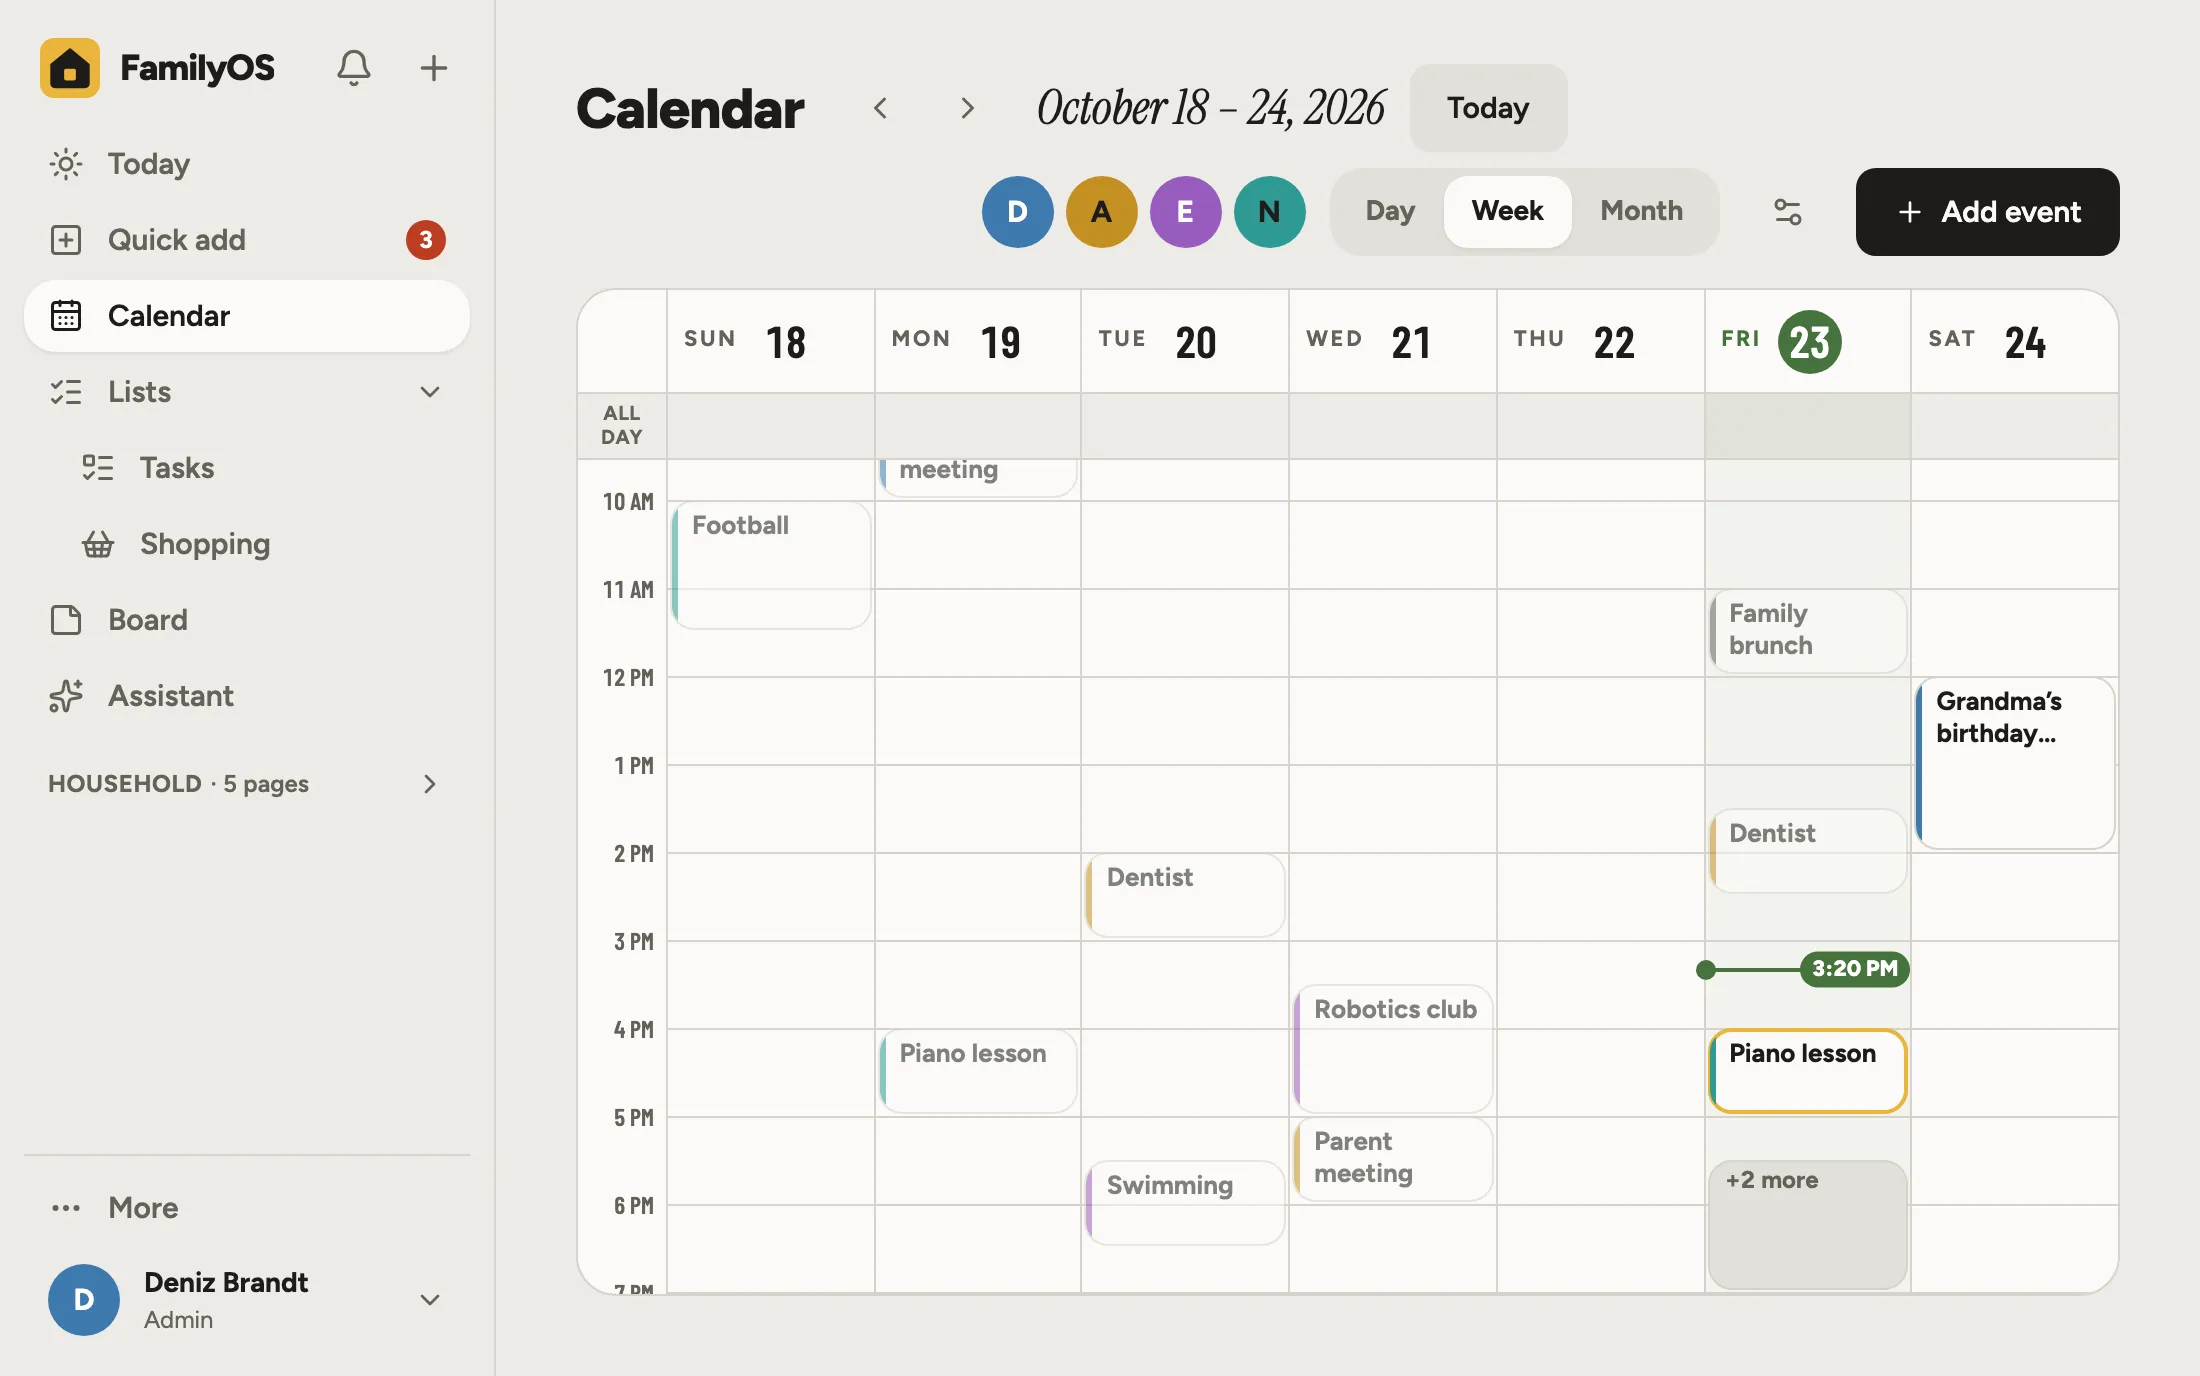
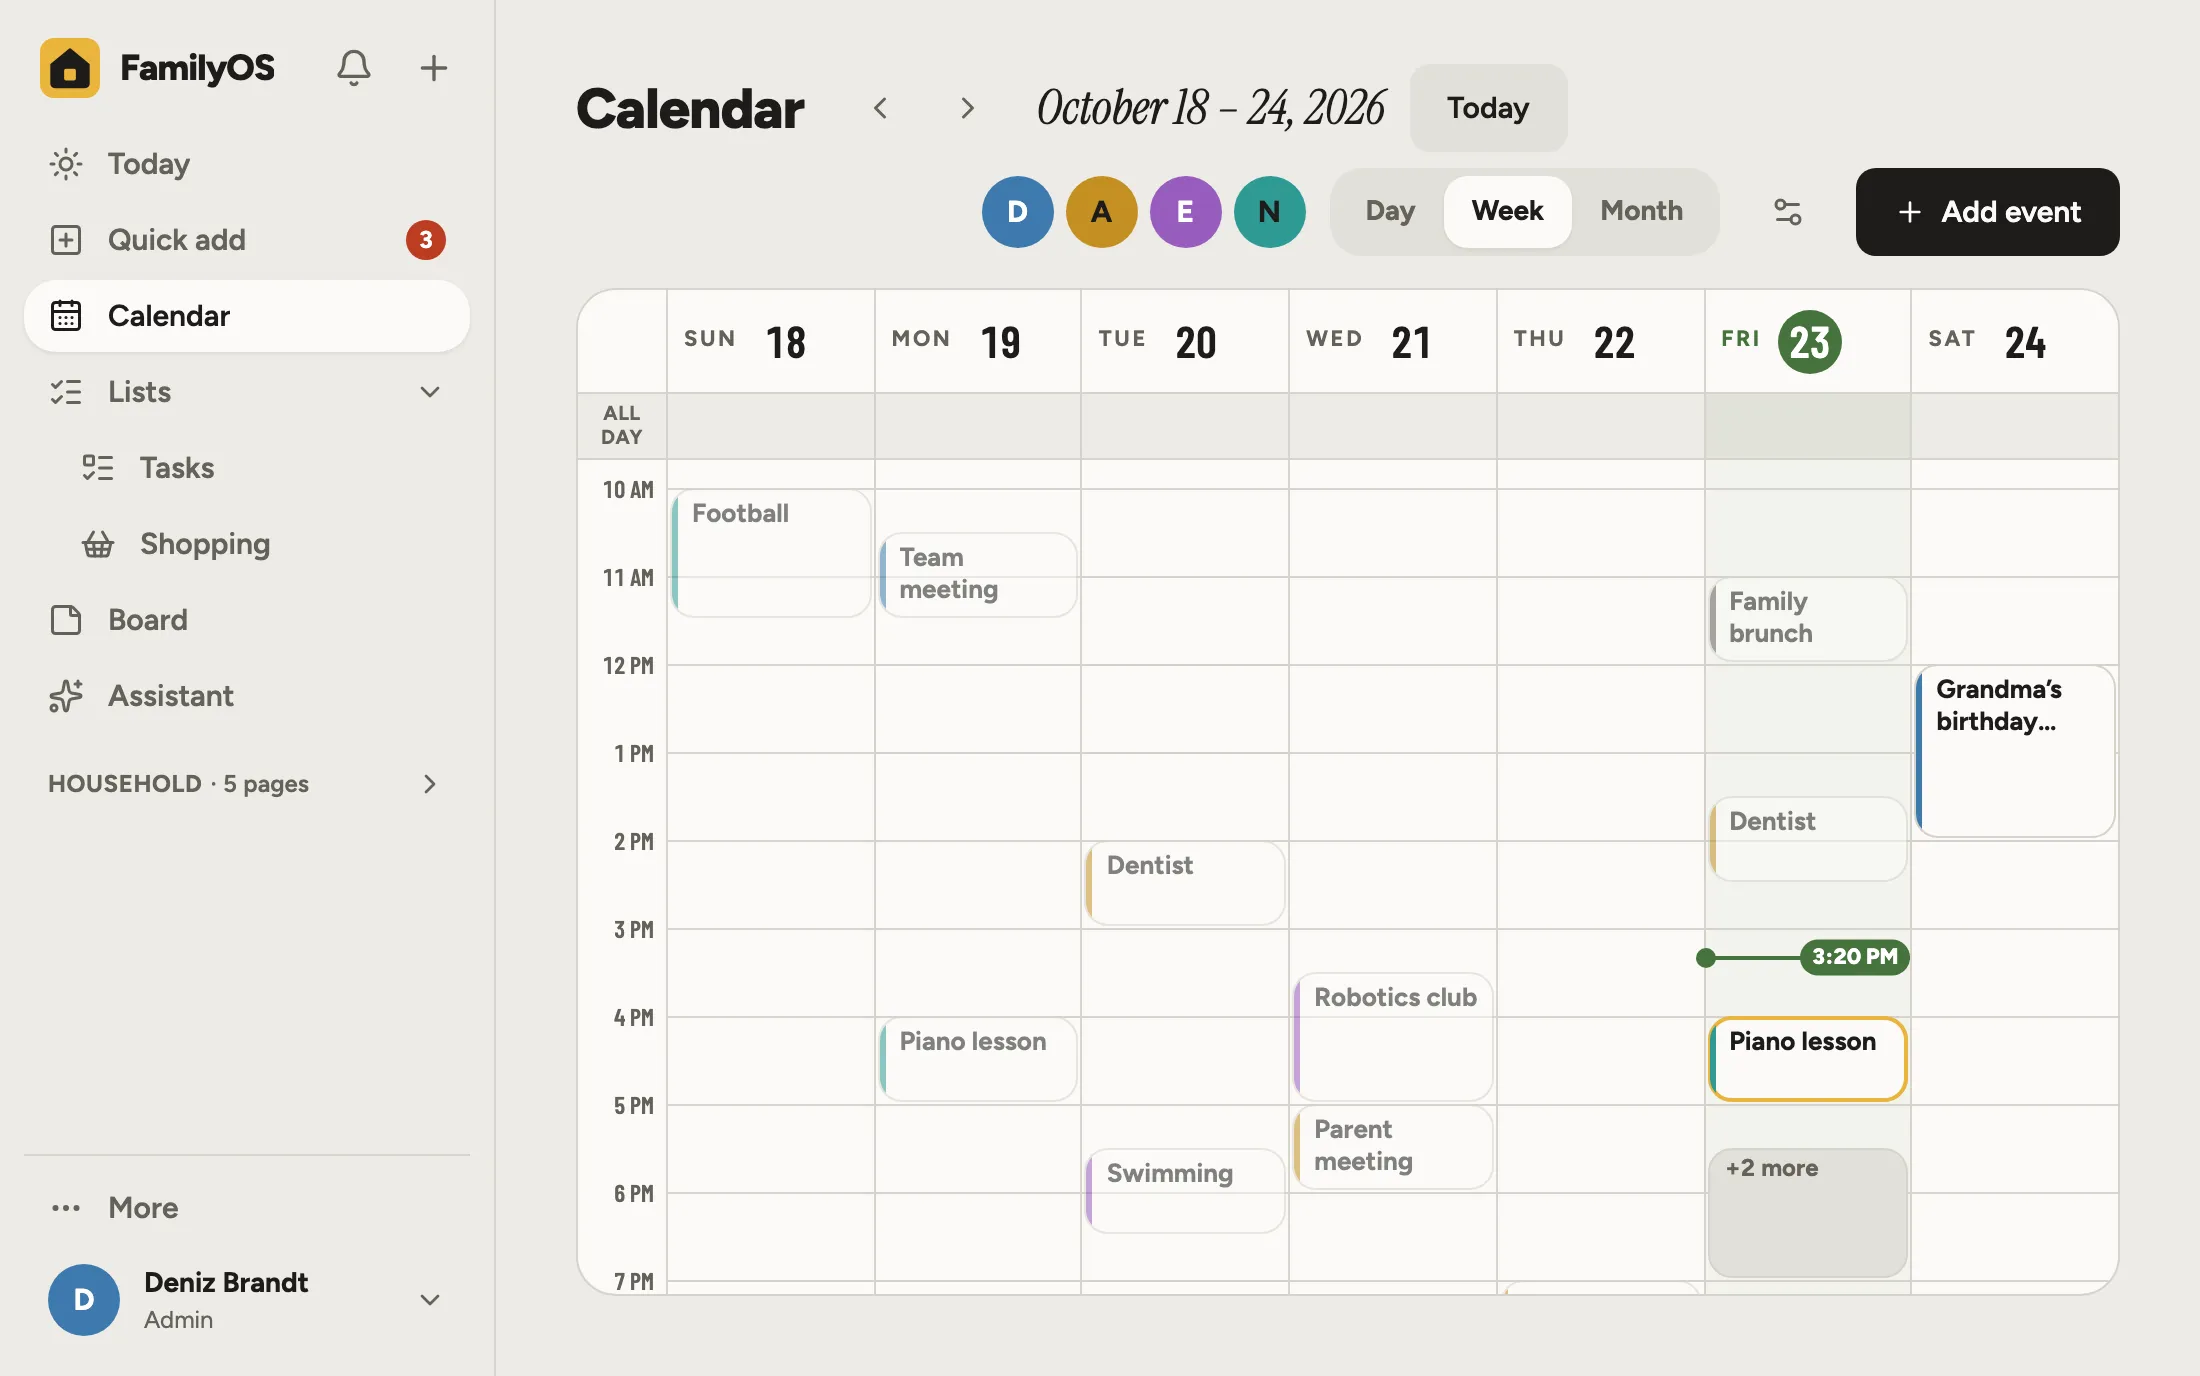
docs(readme): weather in the pictures, whole cards, and Home Assistant as the family sees it
The README script serves a fake Open-Meteo to the server, shoots the
display at scale 2, crops Quick add to one capture group, and shows Today
with who is home, the house's values and a switch.

diff --git a/apps/e2e/sweep/readme.spec.ts b/apps/e2e/sweep/readme.spec.ts
@@ -1,10 +1,11 @@
 import { execFileSync } from 'node:child_process';
-import { cpSync, existsSync, readFileSync, writeFileSync } from 'node:fs';
+import { cpSync, existsSync, readFileSync, statSync, writeFileSync } from 'node:fs';
 import { mkdir } from 'node:fs/promises';
 import { join, resolve } from 'node:path';
 import type { Page } from '@playwright/test';
 import { pairDisplay } from '../support/display.ts';
 import { startFakeHomeAssistant } from '../support/fake-ha.ts';
+import { PRELOAD, startFakeOpenMeteo } from '../support/fake-open-meteo.ts';
 import { api, expect, setUpAndSignIn, test } from '../support/fixtures.ts';
 import { signInAs } from '../support/members.ts';
 import { seedSampleFamily } from '../support/sample-data.ts';
@@ -31,9 +32,15 @@ const OUT = process.env.FAMOS_README_OUT ?? join(ROOT, 'docs/images');
 const ONLY = process.env.FAMOS_README_ONLY?.split(',').map((s) => s.trim());
 const wanted = (name: string) => !ONLY || ONLY.includes(name);
 
-/** A card is 16:10; the window of a page shot whole is this size, a crop of Today 800 x 500. */
+/** A card is 16:10: Today is shot in a 1280 x 800 window, the other pages in this one. */
 const WINDOW = { width: 1100, height: 688 };
 const TOKEN = 'readme-token';
+const MAX_BYTES = 150_000;
+
+// The server's weather comes from a fake Open-Meteo: it is told where it is before it starts.
+const weather = await startFakeOpenMeteo();
+process.env.FAMOS_FAKE_OPEN_METEO_PORT = String(weather.port);
+process.env.NODE_OPTIONS = `${process.env.NODE_OPTIONS ?? ''} --import ${PRELOAD}`.trim();
 
 test.use({ isMobile: false, hasTouch: false, deviceScaleFactor: 2 });
 
@@ -43,7 +50,12 @@ async function save(name: string, take: (path: string) => Promise<unknown>) {
 	await mkdir(OUT, { recursive: true });
 	const png = join(PNG_DIR, `${name}.png`);
 	await take(png);
-	execFileSync('cwebp', ['-quiet', '-q', '80', png, '-o', join(OUT, `${name}.webp`)]);
+	// Quality steps down until the picture is small enough to load quickly on a README.
+	const webp = join(OUT, `${name}.webp`);
+	for (const quality of ['80', '72', '64', '56']) {
+		execFileSync('cwebp', ['-quiet', '-q', quality, png, '-o', webp]);
+		if (statSync(webp).size < MAX_BYTES) break;
+	}
 }
 
 /** A picture of `name` cut out of the page: `x` and `y` are its top left corner. */
@@ -84,6 +96,11 @@ test('the pictures of the README', async ({ page, browser, family, model }) => {
 	await family.start();
 
 	await seedSampleFamily(page, model);
+	// A mild, partly cloudy afternoon, from the fake Open-Meteo.
+	await api(page, 'POST', '/api/v1/actions/ambient.updateWeather', {
+		enabled: true,
+		place: { name: 'Riverton', latitude: 52.37, longitude: 4.9 },
+	});
 
 	const ha = await startFakeHomeAssistant(TOKEN, {
 		'sensor.living_room_temperature': {
@@ -106,6 +123,10 @@ test('the pictures of the README', async ({ page, browser, family, model }) => {
 			state: 'off',
 			attributes: { device_class: 'door', friendly_name: 'Front door' },
 		},
+		'light.kitchen': {
+			state: 'on',
+			attributes: { friendly_name: 'Kitchen light', supported_color_modes: ['onoff'] },
+		},
 		'lock.back_door': { state: 'locked', attributes: { friendly_name: 'Back door' } },
 		'sensor.washing_machine_power': {
 			state: '0',
@@ -122,8 +143,22 @@ test('the pictures of the README', async ({ page, browser, family, model }) => {
 			['sensor.kitchen_humidity', 'Kitchen humidity'],
 			['binary_sensor.front_door', 'Front door'],
 			['lock.back_door', 'Back door'],
-		])
-			await api(page, 'POST', '/api/v1/actions/homeassistant.addItem', { entityId, label });
+			['light.kitchen', 'Kitchen light'],
+		]) {
+			const added = await api<{ output: { id: string } }>(
+				page,
+				'POST',
+				'/api/v1/actions/homeassistant.addItem',
+				{ entityId, label },
+			);
+			// The family allows switching the kitchen light, and nothing else.
+			if (entityId === 'light.kitchen')
+				await api(page, 'POST', '/api/v1/actions/homeassistant.setItemControl', {
+					id: added.output.id,
+					control: true,
+					confirm: false,
+				});
+		}
 
 		// Who is home: each person chooses to share it, so each signs in and does.
 		const members = await api<{ id: string; displayName: string }[]>(
@@ -164,7 +199,7 @@ test('the pictures of the README', async ({ page, browser, family, model }) => {
 		for (const [offset, title, startTime, endTime, first] of [
 			[-5, 'Football', '10:00', '11:30', 'Noah'],
 			[-4, 'Piano lesson', '16:00', '17:00', 'Noah'],
-			[-4, 'Team meeting', '09:00', '10:00', 'Deniz'],
+			[-4, 'Team meeting', '10:30', '11:30', 'Deniz'],
 			[-3, 'Swimming', '17:30', '18:30', 'Elif'],
 			[-3, 'Dentist', '14:00', '15:00', 'Amy'],
 			[-2, 'Parent meeting', '17:00', '18:00', 'Amy'],
@@ -180,55 +215,78 @@ test('the pictures of the README', async ({ page, browser, family, model }) => {
 				memberIds: [idOf(first)],
 			});
 
-		// Today: the clock, the day in a sentence, who is home and the next thing.
+		const hide = (hidden: string[] | null) =>
+			api(page, 'POST', '/api/v1/actions/core.setMyTodayBlocks', { hidden });
+		// Today: the whole window, with the parts that make it tall left out, so every card ends
+		// inside the frame.
 		if (wanted('readme-today')) {
+			await page.setViewportSize({ width: 1600, height: 1000 });
+			await hide(['photo', 'board.today', 'nextDays', 'homeassistant.values']);
 			await open(page, '/');
-			await card(page, 'readme-today', 280, 20, { width: 800, height: 500 });
+			await save('readme-today', (path) => page.screenshot({ path }));
+			await hide(null);
 		}
 
 		// Calendar: a week, from the morning on.
 		if (wanted('readme-calendar')) {
 			await page.setViewportSize(WINDOW);
 			await open(page, '/calendar');
+			// The week from 10 AM, just under the day headers, so no event is cut at the top.
 			await page.evaluate(() => {
-				for (const el of document.querySelectorAll('main *'))
-					if (
-						el.scrollHeight > el.clientHeight + 100 &&
-						getComputedStyle(el).overflowY !== 'visible'
-					)
-						el.scrollTop = 420;
+				const leaf = (text: string) =>
+					[...document.querySelectorAll('main *')].find(
+						(e) =>
+							e.children.length === 0 && e.textContent?.trim().toLowerCase() === text.toLowerCase(),
+					);
+				const hour = leaf('10 AM');
+				const header = leaf('all day')?.parentElement;
+				if (!hour || !header) throw new Error('the week grid was not found');
+				let scroller = hour.parentElement;
+				while (scroller && scroller.scrollHeight <= scroller.clientHeight + 100)
+					scroller = scroller.parentElement;
+				if (scroller)
+					scroller.scrollTop +=
+						hour.getBoundingClientRect().top - header.getBoundingClientRect().bottom - 6;
 			});
 			await page.waitForTimeout(300);
 			await save('readme-calendar', (path) => page.screenshot({ path }));
 		}
 
-		// Quick add: what it found in a shared message, as cards to tick.
+		// Quick add: one whole capture group, from its header to its Add selected row.
 		if (wanted('readme-quick-add')) {
-			await page.setViewportSize(WINDOW);
+			await page.setViewportSize({ width: 1440, height: 1800 });
 			await open(page, '/add');
-			// The newsletter's two cards, under the pending ones.
-			await page
-				.getByText('Class newsletter')
-				.first()
-				.evaluate((el) => {
-					el.scrollIntoView({ block: 'start' });
-				});
+			const group = page.getByTestId('capture-group').filter({ hasText: 'Parent meeting' });
+			await group.scrollIntoViewIfNeeded();
+			const heading = page.getByText('Class newsletter', { exact: true }).first();
+			await heading.evaluate((el) => el.scrollIntoView({ block: 'start' }));
+			await page.evaluate(() => window.scrollBy(0, -40));
 			await page.waitForTimeout(300);
-			await save('readme-quick-add', (path) => page.screenshot({ path }));
+			const top = (await heading.boundingBox())?.y ?? 0;
+			const box = await group.boundingBox();
+			if (!box) throw new Error('the capture group is not on the page');
+			const y = top - 24;
+			const height = box.y + box.height + 32 - y;
+			const width = Math.round(height * 1.6);
+			const x = Math.max(0, box.x + box.width / 2 - width / 2);
+			await save('readme-quick-add', (path) =>
+				page.screenshot({ path, clip: { x, y, width, height } }),
+			);
 		}
 
-		// Home Assistant: what the family chose to show, and who shares being home.
+		// Home Assistant as the family sees it: who is home, and the house's values and a switch.
 		if (wanted('readme-home-assistant')) {
 			await page.setViewportSize(WINDOW);
-			await open(page, '/settings/home-assistant');
-			await page
-				.getByText('What to show', { exact: true })
-				.first()
-				.evaluate((el) => {
-					el.scrollIntoView({ block: 'start' });
-				});
-			await page.waitForTimeout(300);
+			await open(page, '/settings/appearance');
+			const all = await page
+				.locator('#today-blocks input[role="switch"]')
+				.evaluateAll((inputs) => inputs.map((i) => i.id.replace(/^my-blocks-/, '')));
+			await hide(
+				all.filter((id) => !['clock', 'family'].includes(id) && !id.startsWith('homeassistant')),
+			);
+			await open(page, '/');
 			await save('readme-home-assistant', (path) => page.screenshot({ path }));
+			await hide(null);
 		}
 
 		// A wall display in the Wall style, at night, paired like a real one.
@@ -240,10 +298,12 @@ test('the pictures of the README', async ({ page, browser, family, model }) => {
 					'chores.view',
 					'board.view',
 					'homeassistant.view',
+					'ambient.weather',
 				],
 				showNames: true,
 				name: 'Kitchen',
 				viewport: { width: 1280, height: 800 },
+				deviceScaleFactor: 2,
 			});
 			await api(page, 'POST', '/api/v1/actions/core.setDisplayStyle', {
 				deviceId: wall.deviceId,

diff --git a/apps/e2e/support/fake-open-meteo.ts b/apps/e2e/support/fake-open-meteo.ts
@@ -1,0 +1,44 @@
+import http from 'node:http';
+import type { AddressInfo } from 'node:net';
+
+/** Where the server's own `node:https` and DNS are pointed at the fake (see below). */
+export const PRELOAD = new URL('./open-meteo-preload.ts', import.meta.url).pathname;
+
+const HOUR = 3600;
+
+/**
+ * A stand-in for Open-Meteo's forecast: a mild, partly cloudy day. The server only reaches the
+ * real service through `https`, so a run that wants weather loads `open-meteo-preload.ts` in the
+ * server (`NODE_OPTIONS=--import …`, `FAMOS_FAKE_OPEN_METEO_PORT`), which sends those two hosts
+ * here. Hours run from two days back to two days ahead, so any time of day has a forecast.
+ */
+export async function startFakeOpenMeteo() {
+	const server = http.createServer((req, res) => {
+		if (!req.url?.startsWith('/v1/forecast')) return void res.writeHead(404).end('{}');
+		const first = Math.floor(Date.now() / 1000 / HOUR) * HOUR - 48 * HOUR;
+		const time = Array.from({ length: 96 }, (_, i) => first + i * HOUR);
+		// Warmest mid-afternoon (about 19 degrees), coolest before dawn (about 11).
+		const temperature = time.map(
+			(t) =>
+				Math.round((15 + 4 * Math.sin(((((t / HOUR) % 24) - 9) / 24) * 2 * Math.PI)) * 10) / 10,
+		);
+		const body = {
+			current: { temperature_2m: 18.5, weather_code: 2, is_day: 1 },
+			daily: {
+				temperature_2m_max: [19.2, 18.4],
+				temperature_2m_min: [11.1, 10.6],
+				precipitation_probability_max: [10, 20],
+			},
+			hourly: {
+				time,
+				temperature_2m: temperature,
+				weather_code: time.map((t) => (((t / HOUR) % 24) % 7 < 3 ? 1 : 2)),
+				precipitation_probability: time.map(() => 5),
+			},
+		};
+		res.writeHead(200, { 'content-type': 'application/json' }).end(JSON.stringify(body));
+	});
+	await new Promise<void>((resolve) => server.listen(0, '127.0.0.1', resolve));
+	server.unref();
+	return { port: (server.address() as AddressInfo).port };
+}

diff --git a/apps/e2e/support/open-meteo-preload.ts b/apps/e2e/support/open-meteo-preload.ts
@@ -1,0 +1,28 @@
+import dns from 'node:dns/promises';
+import http from 'node:http';
+import https from 'node:https';
+import { syncBuiltinESMExports } from 'node:module';
+
+/**
+ * Loaded into the server with `node --import` when `FAMOS_FAKE_OPEN_METEO_PORT` is set (see
+ * fake-open-meteo.ts): Open-Meteo's two hosts resolve to a public address, so the guard lets the
+ * request through, and the request itself goes to the fake on this machine.
+ */
+const port = process.env.FAMOS_FAKE_OPEN_METEO_PORT;
+if (port) {
+	const hosts = new Set(['api.open-meteo.com', 'geocoding-api.open-meteo.com']);
+	const lookup = dns.lookup;
+	dns.lookup = ((host: string, options: never) =>
+		hosts.has(host)
+			? Promise.resolve([{ address: '93.184.216.34', family: 4 }])
+			: lookup(host, options)) as typeof dns.lookup;
+	const request = https.request;
+	https.request = ((options: https.RequestOptions, callback: never) => {
+		if (typeof options.servername === 'string' && hosts.has(options.servername)) {
+			const { servername: _, rejectUnauthorized: __, ...rest } = options;
+			return http.request({ ...rest, host: '127.0.0.1', port: Number(port) }, callback);
+		}
+		return request(options, callback);
+	}) as typeof https.request;
+	syncBuiltinESMExports();
+}

diff --git a/apps/e2e/support/display.ts b/apps/e2e/support/display.ts
@@ -24,13 +24,14 @@ export async function pairDisplay(
 		showNames?: boolean;
 		name?: string;
 		viewport?: { width: number; height: number };
+		deviceScaleFactor?: number;
 	},
 ): Promise<PairedDisplay> {
 	const name = options.name ?? 'Kitchen';
 	const context = await browser.newContext({
 		baseURL: family.url,
 		viewport: options.viewport ?? { width: 1280, height: 800 },
-		deviceScaleFactor: 1,
+		deviceScaleFactor: options.deviceScaleFactor ?? 1,
 		isMobile: false,
 		hasTouch: false,
 		locale: 'en-US',
